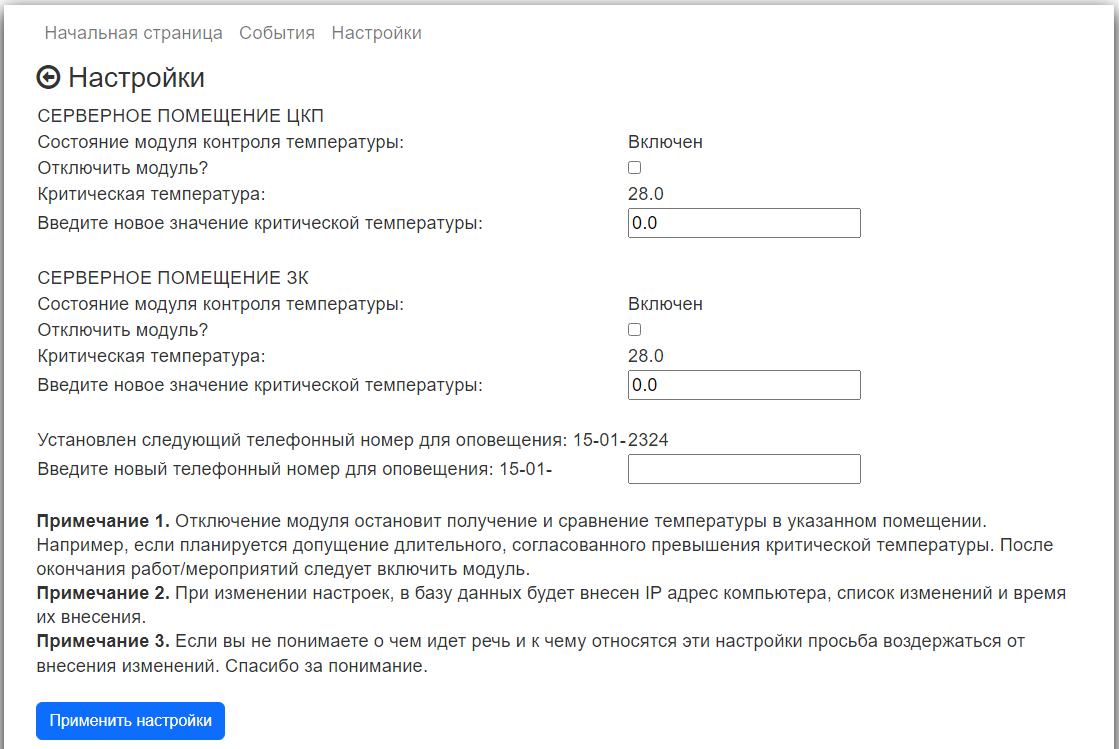
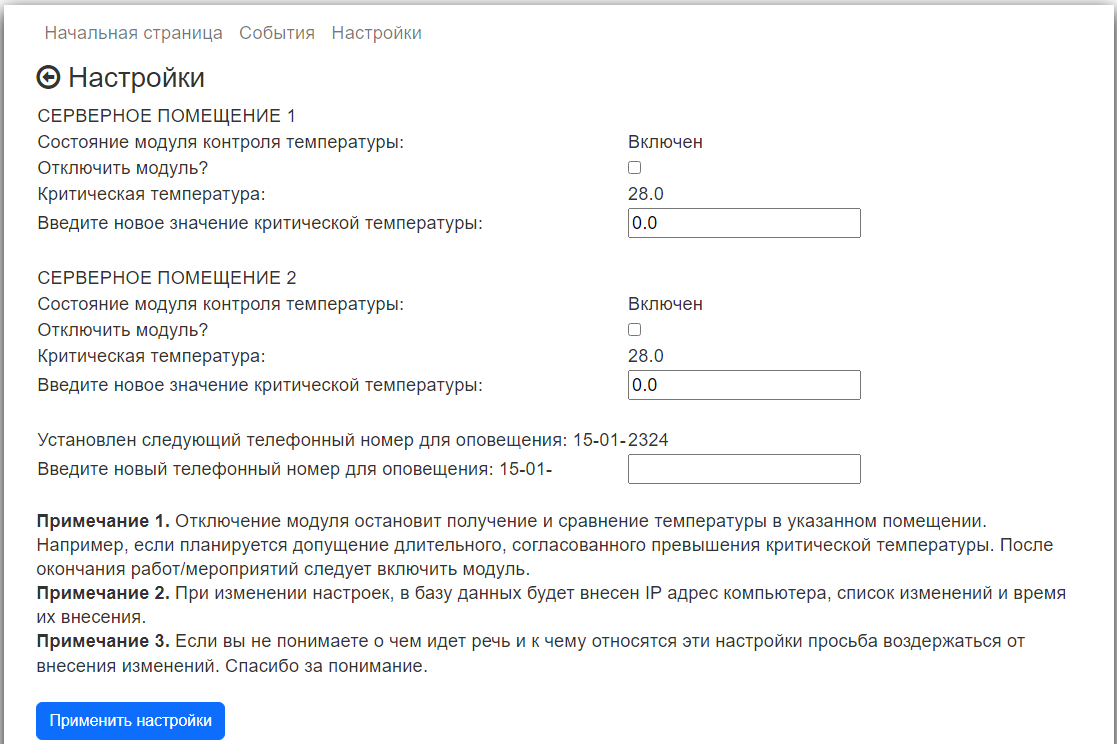
update README.md v2

diff --git a/src/main/resources/templates/settings.html b/src/main/resources/templates/settings.html
@@ -27,7 +27,7 @@
             <form th:action="@{/settings}" th:object="${settingsWrapper}" method="post">
                 <table>
                     <tr>
-                        <td>СЕРВЕРНОЕ ПОМЕЩЕНИЕ ЦКП</td>
+                        <td>СЕРВЕРНОЕ ПОМЕЩЕНИЕ 1</td>
                     </tr>
                     <tr>
                         <td>Состояние модуля контроля температуры:</td>
@@ -60,7 +60,7 @@
                         </td>
                     </tr>
                     <tr>
-                        <td>СЕРВЕРНОЕ ПОМЕЩЕНИЕ ЗК</td>
+                        <td>СЕРВЕРНОЕ ПОМЕЩЕНИЕ 2</td>
                     </tr>
                     <tr>
                         <td>Состояние модуля контроля температуры:</td>

diff --git a/README.md b/README.md
@@ -8,18 +8,19 @@
 #### Поставленные задачи
 
 1. Обеспечить круглосуточный контроль за температурой в двух серверных помещениях.
-2. Использовать доступное имеющееся оборудование. Допускается изготовление из подручных материалов.
+2. Использовать доступное из имеющегося оборудования. Допускается изготовление из подручных материалов.
 3. Обеспечить своевременное оповещение при возникновении аварий систем охлаждения серверных помещений.
 4. Реализовать наглядный web или gui интерфейс.
 5. Логгировать возникающие события, а так же сохранять текущие показатели температуры в базе данных.
 
 #### Оценка имеющихся возможностей, средств
 
-В одном из серверных помещений достаточно корректную температуру только с установленного SNMP-модуля в ИБП. В связи с
-отсутствием выбора
-было принято решение написать парсер странички веб-интерфейса этого модуля.
+В одном из серверных помещений достаточно корректную температуру можно получить только с установленного SNMP-модуля в
+ИБП. В связи с
+отсутствием выбора, было принято решение написать парсер страницы веб-интерфейса этого модуля.
 В другом помещении корректных и доступных источников для получения температуры не было.
-Для оповещения о возникновении аварий был выбран работающий сервер ip-телефонии asterisk. А для логгирования легковесная
+Для оповещения о возникновении аварий был выбран развернутый сервер ip-телефонии asterisk. Для логгирования событий -
+легковесная
 база данных Sqlite.
 
 #### Ход выполнения
@@ -27,21 +28,32 @@
 Идея парсить страницу веб-интерфейса SNMP-модуля провалилась из-за довольно сложной системы аутентификации, которая
 полностью строилась на скриптах, а применять,
 например, selenium, показалось чрезмерным.
-Для решения возникшей проблемы пришлось углубиться в SNMP-протокол, найти на сайте производителя модуля информацию о
+Для решения возникшей проблемы пришлось углубиться в SNMP-протокол, найти на сайте производителя модуля информацию об
 OID (конкретный идентификатор, отвечающий за температуру датчика модуля), подобрать библиотеку для работы с snmp. Затем
 осталавалось указать номер порта и
 найденный OID для формирования запроса, который в ответ присылает актуальное значение температуры.
 
 В серверном помещении без доступных датчиков был установлен микроконтроллер arduino с подключенным к нему, через
-делитель напряжения, датчик NTC3950 (NTC термистор).
+делитель напряжения, датчиком NTC3950 (NTC термистор).
 ![image info](images/image05.jpg)
 ![image info](images/image06.jpg)
-Arduino подключил к usb-порту сервера, на котором будет работать само приложение. Здесь замысел был в том, что цикл,
+Arduino было подключено к usb-порту сервера, на котором работает само приложение. Здесь замысел был в том, что цикл,
 описанный в скетче микроконтроллера:
 
 - каждые 10 секунд оправшивает датчик температуры;
 - преобразует считанное напряжение с помощью библиотеки NTC в градусы, относительно модели датчика;
 - полученное значение передает на COM-порт (на самом деле UART, который так же расположен на плате arduino).
+
+Затем, настроенный планировщик через определенные интервалы считывает данные с виртуального COM-порта. И, как и в случае
+с первым датчиком,
+сравнивает полученное значение с установленное в настройках критической отметкой. В случае превышения критических
+отметок - приложение
+отправляет команду на asterisk сервер через ssh, для оповещения. Затем статус оповещения датчика переводится в режим - "
+выключен" на указанный в настройках
+период (сейчас это 30 минут), чтобы избежать "спама" звонков. Через указанный интервал температура снова сравнивается и
+если она, по прежнему, превышает допустимую, происходит повторный отправка команды оповещения.
+Температура измеряется даже в моменты отключения оповещения, в этом случае, если она быстро снижается и становится ниже
+критической на 5 градусов, то датчик досрочно переводится в режим оповещения "включен".
 
 За оповещение в этом проекте отвечает сервер asterisk 16 версии. Для этого был написан кастомный экстеншн для диалплана,
 который отправлет вызов на указанный номер телефона и проигрывает указанный аудиофайл (который тоже, в свою очередь был
@@ -51,11 +63,11 @@ Arduino подключил к usb-порту сервера, на котором
 Рассматриваемый, в начале разработки проекта, вариант с gui был отброшен из-за неудобства использования и вынужденного
 требования
 разместить приложение на одном из серверов в серверном помещении без доступных датчиков. В итоге был разработан
-простейший
-веб-интерфейс с использованием шаблонизатора thymeleaf. Который обеспечивает доступ к актуальной температуре в серверных
-помещениях, архиву событий и настройкам приложения.
-
-#### 
+простейший веб-интерфейс с использованием шаблонизатора thymeleaf. Для исключения нежелательного доступа посторонних лиц
+был использован модуль spring security и несколько заготовленных, вложенных учетных записей для доступа к сервису.
+Веб-интерфейс обеспечивает доступ к актуальной температуре в серверных
+помещениях, архиву событий и настройкам приложения. В разделе настроек действует валидация введенных данных, для
+исключения случае ввода некорректных данных.
 
 #### Результаты
 
@@ -67,5 +79,6 @@ Arduino подключил к usb-порту сервера, на котором
 ![image info](images/image03.jpg)
 ![image info](images/image04.jpg)
 В автоматическом режиме совершать вызов по указанному телефонному
-номеру и проигрывать аудиофайл, логгировать, хранить и выводить на веб-интерфейс происшедшие события (сюда входят ежечасные показатели
+номеру и проигрывать аудиофайл, логгировать, хранить и выводить на веб-интерфейс происшедшие события (сюда входят
+ежечасные показатели
 температуры, ошибки, предупреждения).
